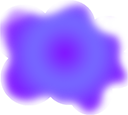
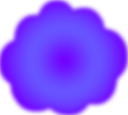
FIx asset problem for infected planet, minor fixes

diff --git a/Scripts/scenes/menu.js b/Scripts/scenes/menu.js
@@ -30,7 +30,7 @@ var scenes;
             this._space = new objects.Space("space");
             this.addChild(this._space);
             // Add Menu Label
-            this._menuLabel = new objects.Label("FLYING DEAD", "80px", "BroadwayFont", "#7200ff", 315, 140);
+            this._menuLabel = new objects.Label("FLYING DEAD", "80px", "BroadwayFont", "#7200ff", 320, 140, true);
             this.addChild(this._menuLabel);
             // add the start button
             this._startButton = new objects.Button("startButton", 320, 340, true);
@@ -52,7 +52,9 @@ var scenes;
         };
         Menu.prototype.update = function () {
             this._space.update();
-            this._menuLabel.alpha == 1 ? this._menuLabel.alpha = 0 : this._menuLabel.alpha = 1;
+            if ((createjs.Ticker.getTime() % 10) < 5) {
+                this._menuLabel.alpha == 1 ? this._menuLabel.alpha = 0 : this._menuLabel.alpha = 1;
+            }
             // scene updates happen here...
         };
         // EVENT HANDLERS ++++++++++++++++

diff --git a/Scripts/objects/planet.js b/Scripts/objects/planet.js
@@ -59,8 +59,7 @@ var objects;
          */
         Planet.prototype._checkBounds = function () {
             if (this.x <= (0 - this.width + this.dx)) {
-                // TODO: change to asset load
-                this.image.src = "Assets/images/planet.png";
+                this.image = core.assets.getResult("planet");
                 this.reset();
             }
         };
@@ -74,14 +73,13 @@ var objects;
          * @returns {void}
          */
         Planet.prototype.start = function () {
-            // TODO: change to asset load
-            this.image.src = "Assets/images/planet.png";
             this.width = this.getBounds().width;
             this.height = this.getBounds().height;
             this.regX = this.width * 0.5;
             this.regY = this.height * 0.5;
             this.reset();
             this.dx = -5; // 5px per frame down
+            this.image = core.assets.getResult("planet");
         };
         /**
          * This method updates the object's properties

diff --git a/Scripts/objects/planet.ts b/Scripts/objects/planet.ts
@@ -57,8 +57,7 @@ module objects {
          */
         private _checkBounds():void {
             if (this.x <= (0 - this.width + this.dx)) {
-                // TODO: change to asset load
-                (<HTMLImageElement> this.image).src = "Assets/images/planet.png";
+                this.image = core.assets.getResult("planet");
                 this.reset();
             }
         }
@@ -74,14 +73,15 @@ module objects {
          * @returns {void}
          */
         public start():void {
-            // TODO: change to asset load
-            (<HTMLImageElement> this.image).src = "Assets/images/planet.png";
+           
+            
             this.width = this.getBounds().width;
             this.height = this.getBounds().height;
             this.regX = this.width * 0.5;
             this.regY = this.height * 0.5;
             this.reset();
             this.dx = -5; // 5px per frame down
+            this.image = core.assets.getResult("planet");
         }
 
         /**

diff --git a/Scripts/scenes/menu.ts b/Scripts/scenes/menu.ts
@@ -34,7 +34,7 @@ module scenes {
             // Add Menu Label
             this._menuLabel = new objects.Label(
                 "FLYING DEAD", "80px", "BroadwayFont", "#7200ff",
-                320, 140,true
+                320, 140, true
             );
             this.addChild(this._menuLabel);
 
@@ -70,7 +70,10 @@ module scenes {
 
         public update(): void {
             this._space.update();
-            this._menuLabel.alpha == 1 ? this._menuLabel.alpha = 0 : this._menuLabel.alpha = 1;
+            if ((createjs.Ticker.getTime() % 10) <5) {
+                this._menuLabel.alpha == 1 ? this._menuLabel.alpha = 0 : this._menuLabel.alpha = 1;
+            }
+            
             // scene updates happen here...
         }
 

diff --git a/Scripts/managers/collision.js b/Scripts/managers/collision.js
@@ -75,8 +75,7 @@ var managers;
                         }
                         // if zombie collides with island
                         if (object2.name === "planet") {
-                            // TODO: change to asset load
-                            object2.image.src = "Assets/images/infectedPlanet.png";
+                            object2.image = core.assets.getResult("infectedPlanet");
                             core.score += 100;
                             createjs.Sound.play("baaaa");
                         }

diff --git a/Scripts/managers/collision.ts b/Scripts/managers/collision.ts
@@ -86,8 +86,7 @@ module managers {
 
                         // if zombie collides with island
                         if (object2.name === "planet") {
-                            // TODO: change to asset load
-                            (<HTMLImageElement> object2.image).src = "Assets/images/infectedPlanet.png";
+                            object2.image = core.assets.getResult("infectedPlanet");
                             core.score += 100;
                             createjs.Sound.play("baaaa");
                         }

diff --git a/Scripts/objects/chargedCloud.js b/Scripts/objects/chargedCloud.js
@@ -98,7 +98,9 @@ var objects;
             this._checkBounds();
             this.position.x = this.x;
             this.position.y = this.y;
-            this.alpha == 1 ? this.alpha = 0 : this.alpha = 1;
+            if ((createjs.Ticker.getTime() % 10) < 5) {
+                this.alpha == 1 ? this.alpha = 0 : this.alpha = 1;
+            }
         };
         return ChargedCloud;
     }(objects.GameObject));

diff --git a/Scripts/core/game.ts b/Scripts/core/game.ts
@@ -31,7 +31,7 @@ namespace core {
     export let currentLives:number = startingLives;
     export let fuelLevel:number = 5;
     export let gunBullets:number = 0;
-    export let gameSpeed:number = 2000;
+    export let gameSpeed:number = 1200;
     export let themeSound:createjs.AbstractSoundInstance;
     let startButton:objects.Button; // reference to our button class
 

diff --git a/Scripts/objects/chargedCloud.ts b/Scripts/objects/chargedCloud.ts
@@ -101,7 +101,9 @@ module objects {
             this._checkBounds();
             this.position.x = this.x;
             this.position.y = this.y;
-            this.alpha ==1?this.alpha=0:this.alpha=1;
+            if ((createjs.Ticker.getTime() % 10) <5) {
+                this.alpha == 1 ? this.alpha = 0 : this.alpha = 1;
+            }
         }
     }
 }

diff --git a/Scripts/objects/bullet.js b/Scripts/objects/bullet.js
@@ -29,6 +29,7 @@ var objects;
         // CONSTRUCTORS +++++++++++++++++++++++++++++++++++++++++++
         function Bullet(imageString) {
             _super.call(this, imageString);
+            this.alpha = 0.5;
             this.start();
         }
         Object.defineProperty(Bullet.prototype, "inFlight", {

diff --git a/Scripts/core/game.js b/Scripts/core/game.js
@@ -22,7 +22,7 @@ var core;
     core.currentLives = core.startingLives;
     core.fuelLevel = 5;
     core.gunBullets = 0;
-    core.gameSpeed = 2000;
+    core.gameSpeed = 1200;
     var startButton; // reference to our button class
     // declare scene variables
     var currentScene;

diff --git a/Scripts/objects/bullet.ts b/Scripts/objects/bullet.ts
@@ -36,7 +36,7 @@ module objects {
         // CONSTRUCTORS +++++++++++++++++++++++++++++++++++++++++++
         constructor(imageString:string) {
             super(imageString)
-
+            this.alpha = 0.5;
             this.start();
         }
 
